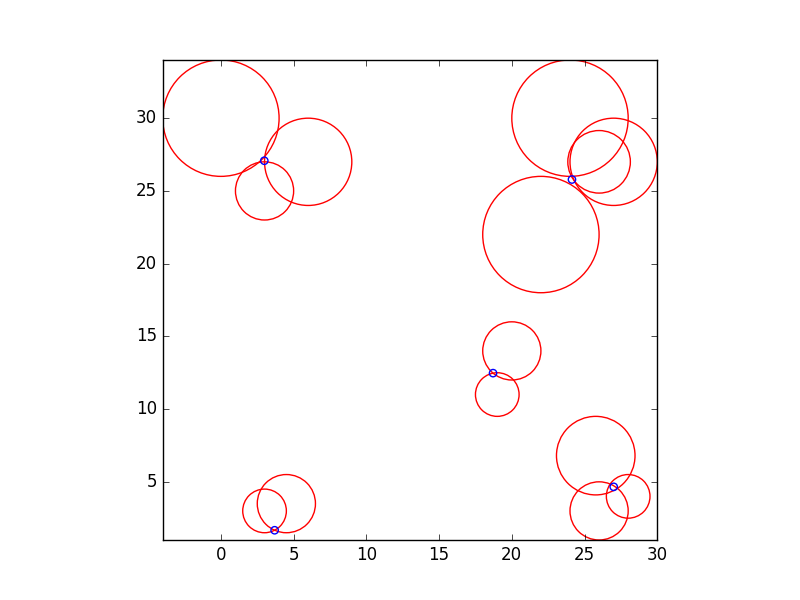
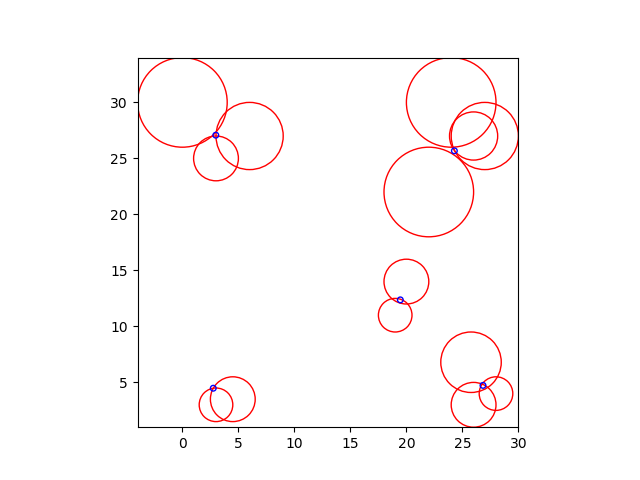
misc.

diff --git a/multilateration.py b/multilateration.py
@@ -18,23 +18,34 @@ except ModuleNotFoundError:
     from .circle_intersection import get_circle_intersections
 
 
-# def coord_to_np(coord):
-#     return np.array(coord[0]).T
-#
 def pair_to_np(pair):
+    """
+    Convert list of size 2 to np array
+    :param pair: list of size 2
+    :return: np array of dim one, size 2
+    """
     return np.array((pair[0], pair[1])).T
 
 def single_loss(p, x, r):
+    """
+    Loss function | ||p-x|| - r |^2 for optimization
+    :param p: Optimization variable: the desired intersections
+    :param x: Circle center
+    :param r: Circle radius
+    :return: | ||p-x|| - r |^2
+    """
     return np.abs(np.linalg.norm(p-x) - r)
 
 def single_loss_ord(p, x, r, norm_ord=2):
     return np.abs(np.linalg.norm(p-x, ord=norm_ord) - r) ** norm_ord
 
-def opt_func_dec(x_list, r_list, lat_id_list):
-    # x_list: a vector of x's
-    # x represents [x y]' : a vector of positions
-    # r_list: a vector of r's
-    # r represents r: radius of circle corresponding to position
+def opt_func_dec(x_list, r_list, *args):
+    """
+    :param x_list: a vector of x's, where x represents [x y]' : a vector of positions
+    :param r_list: a vector of r's, where r represents radius of circle corresponding to position
+    :param *args: lat_id_list and reference back to signal objects, which are unused
+    :return: loss_func_ord, loss_func, jacobian (gradient)
+    """
 
     x_list_copy = deepcopy(x_list)
     r_list_copy = deepcopy(r_list)
@@ -45,9 +56,10 @@ def opt_func_dec(x_list, r_list, lat_id_list):
         )
 
         return l
-    # https://stackoverflow.com/questions/4582521/python-creating-dynamic-functions
+
     def loss_func(p):
-        # | ||p-x}| - r |^2
+        # | ||p-x|| - r |^2
+        # Sum over loss for each element in x
         l = sum(
             (single_loss(p, x, r) for x, r in zip(x_list_copy, r_list_copy))
         )
@@ -55,6 +67,7 @@ def opt_func_dec(x_list, r_list, lat_id_list):
         return l
 
     def jacobian(p):
+        # Jacobian of the above loss function, with respect to vector p
         grad_j = np.zeros_like(p)
         for xi, ri in zip(x_list_copy, r_list_copy):
             d = np.linalg.norm(p-xi)
@@ -65,7 +78,13 @@ def opt_func_dec(x_list, r_list, lat_id_list):
 
 
 def determine_num_lat_clusters(circles, clustering_threshold=0.2):
+    """
+    Determine the number of clusters, for which standard multilateration is performed on each
 
+    :param circles: All the circles for multilateration.
+    :param clustering_threshold: Thresold for hcluster
+    :return: num_lat_clusters, enum_clusters, cluster_means, circle_point_id_list
+    """
     def perform_hcluster(points, clustering_threshold=0.2, metric='euclidean'):
         # points: column np array of [x; y] containing intersections and circle centers
         # do hcluster.
@@ -133,25 +152,25 @@ def determine_num_lat_clusters(circles, clustering_threshold=0.2):
             # can detect an "almost-intersection".
             if case == 'seperate':
                 # seperate: try increasing radii and detecting intersection
-                c0, r0, lat_cluster0 = circle0
-                c1, r1, lat_cluster1 = circle1
+                c0, r0, lat_cluster0, _ = circle0
+                c1, r1, lat_cluster1, _ = circle1
 
                 # expand both radii
-                circle0_expanded = [c0, 1.1 * r0, lat_cluster0]
-                circle1_expanded = [c1, 1.1 * r1, lat_cluster1]
+                circle0_expanded = [c0, 1.1 * r0, lat_cluster0, None]
+                circle1_expanded = [c1, 1.1 * r1, lat_cluster1, None]
                 ix0, ix1, case = get_circle_intersections(circle0_expanded, circle1_expanded)
                 if case == 'intersect':
                     hcluster_points.extend([ix0, ix1])
                     point_count += 2
             elif case == 'contained':
                 # seperate: try decreasing radii and detecting intersection
-                c0, r0, lat_cluster0 = circle0
-                c1, r1, lat_cluster1 = circle1
+                c0, r0, lat_cluster0, _ = circle0
+                c1, r1, lat_cluster1, _ = circle1
 
                 # reduce the outer (containing) circle's radius
                 # expand the inner (contained) circle's radius
-                circle0_reduced = [c0, (0.9 if ix0 is True else 1.1) * r0, lat_cluster0]
-                circle1_reduced = [c1, (0.9 if ix1 is True else 1.1) * r1, lat_cluster1]
+                circle0_reduced = [c0, (0.9 if ix0 is True else 1.1) * r0, lat_cluster0, None]
+                circle1_reduced = [c1, (0.9 if ix1 is True else 1.1) * r1, lat_cluster1, None]
                 ix0, ix1, case = get_circle_intersections(circle0_reduced, circle1_reduced)
                 if case == 'intersect':
                     hcluster_points.extend([ix0, ix1])
@@ -166,11 +185,17 @@ def determine_num_lat_clusters(circles, clustering_threshold=0.2):
     return num_lat_clusters, enum_clusters, cluster_means, circle_point_id_list
 
 def get_local_lims(circles):
+    """
+    Get the local limits (borders) for all the circles in the list.
+
+    :param circles: Circles for multilateration.
+    :return: (min_x, max_x), (min_y, max_y)
+    """
     max_x = -sys.maxsize
     min_x = +sys.maxsize
     max_y = -sys.maxsize
     min_y = +sys.maxsize
-    for (x, y), r, lat_cluster_id in circles:
+    for (x, y), r, lat_cluster_id, _ in circles:
         max_x = max(x + r, max_x)
         min_x = min(x - r, min_x)
         max_y = max(y + r, max_y)
@@ -182,7 +207,23 @@ def multiple_multilateration(circles_ref, xlim=(0,10), ylim=(0,10),
                              num_lat_clusters=2, opt_trials=7, recluster_iters=5,
                              clustering_threshold=4.5, highlight_radius=0.2,
                              plot_circles_on_iter=False, verbose=False):
+    """
+    Perform multilateration, not knowing in advance how many multilateration points there are.
+    Uses hcluster to initally seed cluster centers, then a k-means like method to try and find best
+    multilat points for each cluster and cluster for each multilat point.
 
+    :param circles_ref: Circles: list of circles in form [x, y], r, _
+    :param xlim: x borders
+    :param ylim: y borders
+    :param num_lat_clusters: # of lat clusters. If not specified, determined through hcluster
+    :param opt_trials: Optimization re-seeding attempts. More = higher prob. of better result
+    :param recluster_iters: k-means like iterations of reclustering for p
+    :param clustering_threshold: clustering_threshold for hcluster
+    :param highlight_radius: radius for multilateration point (not used in this, only for plots later)
+    :param plot_circles_on_iter: Generate plots on each iteration or not
+    :param verbose: verbosity
+    :return: best_fun_vals_list, best_total_loss
+    """
     circles_copy = deepcopy(circles_ref)
     num_circles = len(circles_copy)
     if verbose: print('[multiple_multilateration] circles_copy init:', circles_copy)
@@ -209,12 +250,8 @@ def multiple_multilateration(circles_ref, xlim=(0,10), ylim=(0,10),
             cluster_xlim, cluster_ylim = xlim, ylim
 
         for ot in range(opt_trials):
-            # p0 = np.array([7, 7]).T
-            # p0 = np.random.uniform(0, 30, p0_example.shape)
-
             # Generate single random initial cluster center
             # always do so for the initial try
-            # if p0_from_hcluster is not None and (ot == 0 or ot % 2 == 0):
             if p0_from_hcluster is not None and (ot == 0):
                 p0 = p0_from_hcluster
             else:
@@ -253,7 +290,7 @@ def multiple_multilateration(circles_ref, xlim=(0,10), ylim=(0,10),
         max_delocalized_circle_index = None
         p = min_fun_val['p']
 
-        for i, (center, r, lat_cluster_id) in enumerate(circles):
+        for i, (center, r, lat_cluster_id, _) in enumerate(circles):
 
             x = center
             loss = single_loss(p, x, r)
@@ -265,7 +302,7 @@ def multiple_multilateration(circles_ref, xlim=(0,10), ylim=(0,10),
         return max_delocalized_circle, max_delocalized_circle_index
 
     def reassign_circle_clusters(circles, min_fun_vals, epsilon=0.25):
-        for i, ((x, y), r, lat_cluster_id) in enumerate(circles):
+        for i, ((x, y), r, lat_cluster_id, _) in enumerate(circles):
             # second_min_lat_cluster unused - might be useful later for prob. epsilon swap
             min_lat_cluster, _ = argmin_p(circles[i], min_fun_vals)
             circles[i][2] = min_lat_cluster
@@ -303,7 +340,7 @@ def multiple_multilateration(circles_ref, xlim=(0,10), ylim=(0,10),
     for i in range(recluster_iters):
         if verbose: print('--- Iteration %d ---' % (i,))
         lat_clusters = [[] for _ in range(num_lat_clusters)]
-        for j, ((x, y), r, lat_cluster_id) in enumerate(circles_copy):
+        for j, ((x, y), r, lat_cluster_id, _) in enumerate(circles_copy):
             lat_clusters[lat_cluster_id].append(circles_copy[j])
 
         min_fun_vals_list_prev = min_fun_vals_list
@@ -391,16 +428,30 @@ def multiple_multilateration(circles_ref, xlim=(0,10), ylim=(0,10),
         best_fun_vals_list = min_fun_vals_list
 
     # Detect circle pairs, and if they intersect return both intersections
+    # Format the minlateration p's to include a radius, like how circles are
     for best_fun_vals in best_fun_vals_list:
-        if len(best_fun_vals['circles']) == 2:
+        # If only one circle in cluster, or all circles share the same center
+        circle_centers, circle_radii = [], []
+        for center, r, lat_cluster_id, _ in best_fun_vals['circles']:
+            circle_centers.append(center)
+            circle_radii.append(r)
+        if len(best_fun_vals['circles']) == 1 or all(np.array_equal(center, circle_centers[0]) for center in circle_centers):
+            # Set p to be the circle center, and use a similar radius, because nothing more can be said about
+            # which direction the information came from.
+
+            # scale radius of minlat to circle radius
+            r = 0.9*np.average(circle_radii)
+            best_fun_vals['p'] = [[circle_centers[0], r],]
+        # If two circles in cluster
+        elif len(best_fun_vals['circles']) == 2:
             ix0, ix1, case = get_circle_intersections(*best_fun_vals['circles'])
             # Convert intersections into list
             if case == 'intersect':
-                best_fun_vals['p'] = [ix0, ix1]
+                best_fun_vals['p'] = [[ix0, highlight_radius], [ix1, highlight_radius]]
             else:
-                best_fun_vals['p'] = [best_fun_vals['p'],]
+                best_fun_vals['p'] = [[best_fun_vals['p'], highlight_radius],]
         else:
-            best_fun_vals['p'] = [best_fun_vals['p'],]
+            best_fun_vals['p'] = [[best_fun_vals['p'], highlight_radius],]
 
     return best_fun_vals_list, best_total_loss
 
@@ -415,7 +466,8 @@ def locate_intersections(circles_ref, xlim=None, ylim=None, num_lat_clusters=Non
     for circle in circles_ref:
         x, y = circle[0]
         r = circle[1]
-        circles_np.append([pair_to_np([x, y]), r, None])
+        label = circle[2]
+        circles_np.append([pair_to_np([x, y]), r, None, label])
         r_avg += r
     r_avg /= len(circles_np)
     highlight_radius = r_avg / 10
@@ -428,15 +480,6 @@ def locate_intersections(circles_ref, xlim=None, ylim=None, num_lat_clusters=Non
         K = 34
         diameter = K
         ratio_determinant = diameter / (r_avg*3)
-        # threshold: determine based on diamater of area covered
-        # and circle average sizes
-        # (determined these by trial and error)
-        # if ratio_determinant > 4:
-        #     auto_clustering_threshold = (diameter / K) * diameter / (r_avg*3)
-        # elif ratio_determinant > 2:
-        #     auto_clustering_threshold = (diameter / K) * 4
-        # else:
-        #     auto_clustering_threshold = ((diameter / K) * diameter / (r_avg*3)) ** 2
 
         if ratio_determinant < 4:
             auto_clustering_threshold = 4.488449 * (r_avg / 3.5)

diff --git a/circle_intersection.py b/circle_intersection.py
@@ -4,8 +4,8 @@ import numpy as np
 
 def get_circle_intersections(circle0, circle1):
     # https://stackoverflow.com/questions/3349125/circle-circle-intersection-points
-    c0, r0, _ = circle0
-    c1, r1, _ = circle1
+    c0, r0, _, _ = circle0
+    c1, r1, _, _ = circle1
 
     d = np.linalg.norm(c0-c1)
 
